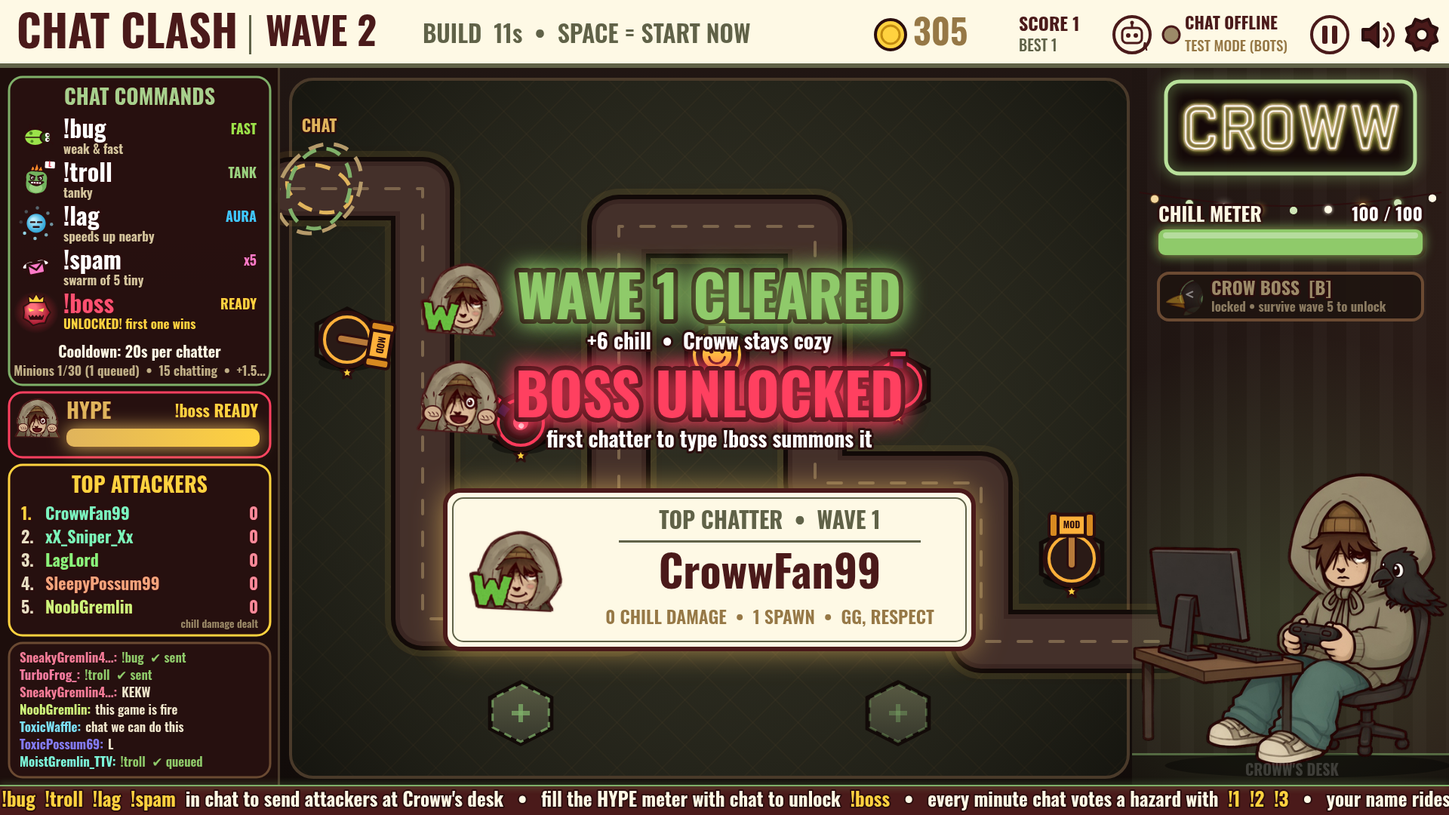
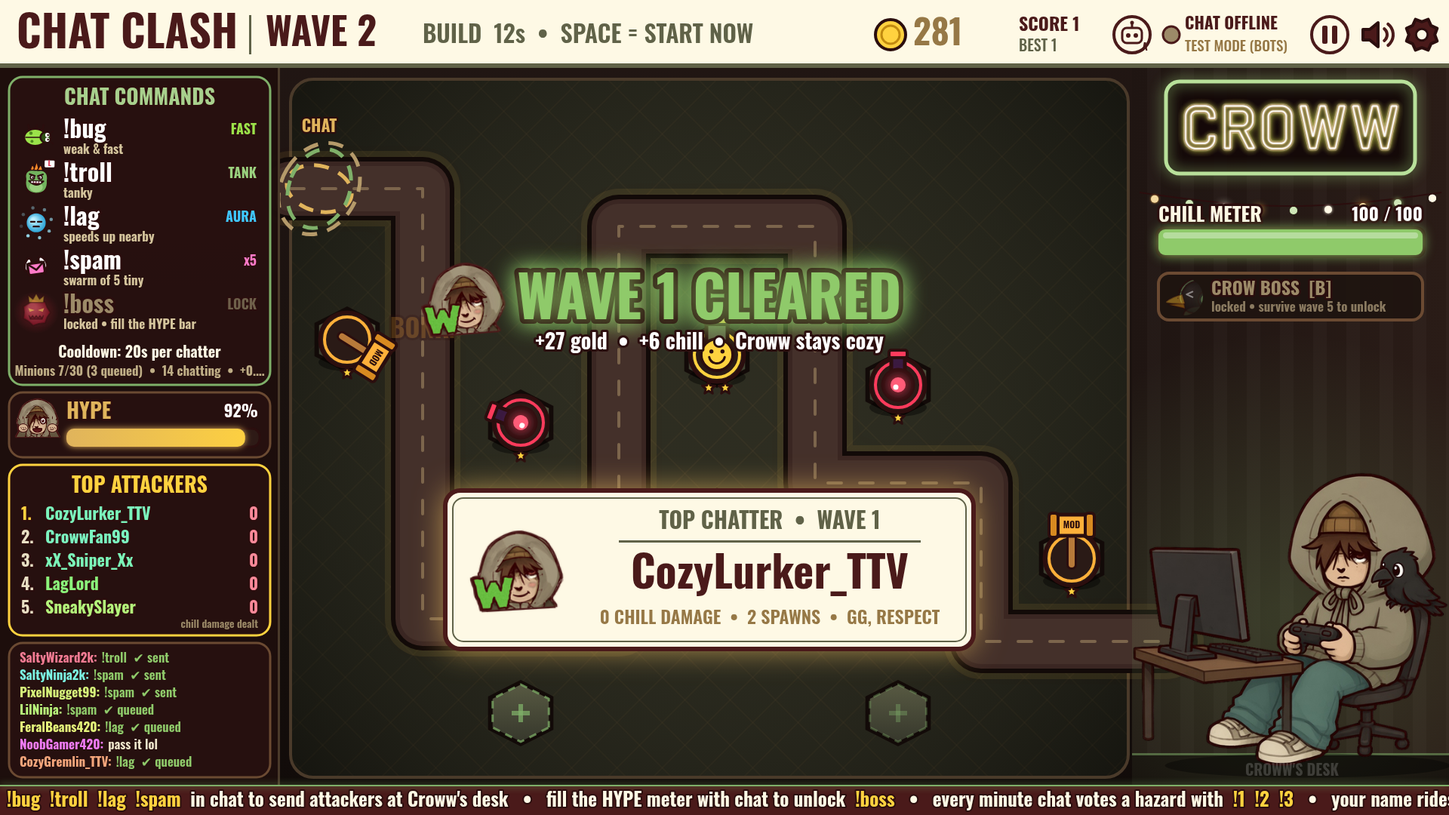
Economy rework: tight gold. Trickle 1.5->0.4/s (small-chat boost +1.5 -> +0.1), wave-clear bonus 15+12/wave, kill gold x0.55 (small-chat kill bonus +35%), towers ~1.7x (100/135/120/185) +25% per copy owned, upgrades 1.0x/1.5x base; econ-sim bank curve; tests updated

diff --git a/index.html b/index.html
@@ -71,10 +71,12 @@ const DATA = {
   W: 1920, H: 1080,
   path: [[405,250],[560,250],[560,820],[820,820],[820,300],[1080,300],[1080,640],[1300,640],[1300,850],[1545,850]],
   pads: [[460,450],[690,560],[690,945],[950,470],[950,690],[1190,510],[1190,945],[1420,740]],
-  economy: { startGold: 160, trickle: 1.5, sellRefund: 0.6,
+  // income is mostly EARNED: kills + a wave-clear bonus (clearBase + clearPerWave * wave); the passive trickle is small.
+  // killMult scales every enemy's gold; npcKillMult further scales the house NPCs (they are numerous).
+  economy: { startGold: 200, trickle: 0.4, sellRefund: 0.6, killMult: 0.55, npcKillMult: 1, chatKillMult: 1, clearBase: 15, clearPerWave: 12, copyStep: 0.25,
     // small-chat boost: fewer chatters = fewer chat enemies to farm, so the trickle (and a little kill gold) scales up.
     // boost k = 1 at 0 active chatters, fading linearly to 0 at smallChatFull chatters.
-    smallChatFull: 8, smallTrickleBonus: 1.5, smallKillBonus: 0.1, activeWindow: 120 },
+    smallChatFull: 8, smallTrickleBonus: 0.1, smallKillBonus: 0.35, activeWindow: 120 },
   // small-chat scaling of chat power (k = small-chat boost 0..1, same k as the gold boost)
   smallChat: { cooldown: 7, cooldownCurve: 1.6, hpBoost: { bug: 0.4, troll: 0.6, lag: 0.4, spam: 0.3 }, spamExtra: 3, hypeGain: 4, hypeDecayCut: 0.7 },
   chill: { max: 100, regenOnClear: 6 },
@@ -94,12 +96,12 @@ const DATA = {
     boss:  { label: 'BOSS',  desc: 'unlocks at full HYPE', hp: 1700, speed: 36,  gold: 150, dmg: 35, r: 56, cost: 0 }
   },
   towers: {
-    hammer: { name: 'Mod Hammer',   key: '1', desc: 'Melee slam, splash damage',    cost: 60,  range: 150, dmg: 34, rate: 1.1, splash: 95, color: '#ffb03a' },
-    laser:  { name: 'Ban Laser',    key: '2', desc: 'Single-target beam, high DPS', cost: 80,  range: 270, dps: 44, color: '#ff3b5c' },
-    slow:   { name: 'Slow Mode',    key: '3', desc: 'Pulse slows everyone nearby',  cost: 70,  range: 210, slow: 0.45, dur: 1.5, rate: 1.0, dmg: 5, color: '#5ab8ff' },
-    cannon: { name: 'Emote Cannon', key: '4', desc: 'Lobbed emotes, big AoE',       cost: 110, range: 290, dmg: 50, rate: 1.9, splash: 115, projSpeed: 1.1, color: '#ffd23f' }
+    hammer: { name: 'Mod Hammer',   key: '1', desc: 'Melee slam, splash damage',    cost: 100, range: 150, dmg: 34, rate: 1.1, splash: 95, color: '#ffb03a' },
+    laser:  { name: 'Ban Laser',    key: '2', desc: 'Single-target beam, high DPS', cost: 135, range: 270, dps: 44, color: '#ff3b5c' },
+    slow:   { name: 'Slow Mode',    key: '3', desc: 'Pulse slows everyone nearby',  cost: 120, range: 210, slow: 0.45, dur: 1.5, rate: 1.0, dmg: 5, color: '#5ab8ff' },
+    cannon: { name: 'Emote Cannon', key: '4', desc: 'Lobbed emotes, big AoE',       cost: 185, range: 290, dmg: 50, rate: 1.9, splash: 115, projSpeed: 1.1, color: '#ffd23f' }
   },
-  upgrade: { maxLevel: 3, costMult: [0, 0.85, 1.3], dmgMult: 1.55, rangeMult: 1.1, rateMult: 0.88, slowAdd: 0.08 },
+  upgrade: { maxLevel: 3, costMult: [0, 1.0, 1.5], dmgMult: 1.55, rangeMult: 1.1, rateMult: 0.88, slowAdd: 0.08 },
   vote: { firstDelay: 40, interval: 60, duration: 20, hazardDuration: 25 },
   hazards: {
     fog:      { name: 'FOG',          desc: 'Towers lose 30% range',    range: 0.7, color: '#b9c3d6' },
@@ -291,12 +293,14 @@ function startWave() {
 }
 function waveCleared() {
   G.score = G.wave;
+  const bonus = Math.round(waveBonus(G.wave) * diff().gold); G.gold += bonus;
+  G.texts.push({ x: 1200, y: 60, s: '+' + bonus + 'g WAVE BONUS', c: '#ffd23f', t: 0, dur: 1.8, size: 30, vy: -10, pop: true });
   G.chill = Math.min(DATA.chill.max, G.chill + DATA.chill.regenOnClear);
   let top = null;
   for (const u in G.waveStats) { const s = G.waveStats[u]; if (!top || s.dmg > top.s.dmg || (s.dmg === top.s.dmg && s.spawns > top.s.spawns)) top = { u, s }; }
   G.card = { t: 0, dur: 5, wave: G.wave, top };
   G.crow.ringT = 2.6;
-  banner('WAVE ' + G.wave + ' CLEARED', '+' + DATA.chill.regenOnClear + ' chill  \u2022  Croww stays cozy', '#8fca6a', 2.6, 'crowwW');
+  banner('WAVE ' + G.wave + ' CLEARED', '+' + bonus + ' gold  \u2022  +' + DATA.chill.regenOnClear + ' chill  \u2022  Croww stays cozy', '#8fca6a', 2.6, 'crowwW');
   SFX.play('clear');
   saveBest(G.score);
   if (G.wave >= DATA.crowBoss.unlockWave) unlockCrowBoss('survived wave ' + G.wave);
@@ -328,7 +332,7 @@ function dmgEnemy(e, amt, src) {
   if (src !== 'laser') SFX.play('hit');
   if (e.hp <= 0) {
     e.dead = true; G.kills++;
-    const g = Math.round(DATA.enemies[e.type].gold * diff().gold * killGoldMult()); G.gold += g;
+    const g = Math.round(DATA.enemies[e.type].gold * DATA.economy.killMult * (e.isBot ? DATA.economy.npcKillMult : DATA.economy.chatKillMult) * diff().gold * killGoldMult()); G.gold += g;
     G.texts.push({ x: e.x, y: e.y - 20, s: '+' + g, c: '#ffd23f', t: 0, dur: 0.9, size: 26, vy: -60 });
     const col = { bug: '#9be34a', troll: '#72b35e', lag: '#3fc8ff', spam: '#ff7ac8', boss: '#ff4060' }[e.type];
     const cnt = e.type === 'boss' ? 60 : e.type === 'troll' ? 22 : 12;
@@ -615,10 +619,14 @@ function tStats(tw) {
   return { range: b.range * Math.pow(u.rangeMult, l) * fog, baseRange: b.range * Math.pow(u.rangeMult, l), dmg: (b.dmg || 0) * Math.pow(u.dmgMult, l), dps: (b.dps || 0) * Math.pow(u.dmgMult, l),
     rate: (b.rate || 0) * Math.pow(u.rateMult, l), splash: b.splash ? b.splash * (1 + 0.1 * l) : 0, slow: b.slow ? Math.min(0.75, b.slow + u.slowAdd * l) : 0, dur: b.dur || 0 };
 }
+/* tower price: base cost +copyStep (25%) for every tower of that type already owned; rounded to 5g */
+function towerCost(type) { const owned = G ? G.towers.filter(t => t && t.type === type).length : 0; return Math.round(DATA.towers[type].cost * (1 + DATA.economy.copyStep * owned) / 5) * 5; }
+function cheapestTowerCost() { return Math.min(...Object.keys(DATA.towers).map(towerCost)); }
+function waveBonus(w) { return Math.round(DATA.economy.clearBase + DATA.economy.clearPerWave * w); }
 function upCost(tw) { return tw.level >= DATA.upgrade.maxLevel ? 0 : Math.round(DATA.towers[tw.type].cost * DATA.upgrade.costMult[tw.level]); }
 function build(pi, type) {
   if (G.towers[pi] || G.phase === 'defeat' || G.phase === 'results') return false;
-  const c = DATA.towers[type].cost; if (G.gold < c) { SFX.play('click'); return false; }
+  const c = towerCost(type); if (G.gold < c) { SFX.play('click'); return false; }
   G.gold -= c; const [x, y] = DATA.pads[pi];
   G.towers[pi] = { type, level: 1, cd: 0.3, ang: -Math.PI / 2, anim: 0, recoil: 0, beam: null, spent: c, x, y, pulse: 0, place: 1 };
   G.rings.push({ x, y, r: 20, r2: 90, t: 0, dur: 0.4, c: DATA.towers[type].color, w: 6 });
@@ -720,7 +728,7 @@ function afkTick(dt) {
   // build the next planned tower, else the cheapest useful upgrade
   const next = AFK_PLAN.find(([, pi]) => !G.towers[pi]);
   const ups = G.towers.map((tw, i) => tw && tw.level < DATA.afk.maxLevel ? { i, c: upCost(tw) } : null).filter(x => x && x.c > 0).sort((a, b) => a.c - b.c);
-  const nCost = next ? DATA.towers[next[0]].cost : Infinity, built = G.towers.filter(Boolean).length;
+  const nCost = next ? towerCost(next[0]) : Infinity, built = G.towers.filter(Boolean).length;
   const money = G.gold - DATA.afk.reserve;
   if (next && (built < 4 || !ups.length || nCost <= ups[0].c * 1.4)) { if (money >= nCost) build(next[1], next[0]); }
   else if (ups.length && money >= ups[0].c) upgrade(ups[0].i);
@@ -944,7 +952,7 @@ function drawTowerIcon(type, x, y, s, t, ang, anim, recoil, level) {
   if (level) for (let i = 0; i < level; i++) { const px = x - (level - 1) * 11 + i * 22; ctx.save(); ctx.translate(px, y + 44 * s); ctx.beginPath(); for (let j = 0; j < 10; j++) { const a = j / 10 * 6.283 - Math.PI / 2, rr2 = j % 2 ? 4 : 9; ctx.lineTo(Math.cos(a) * rr2, Math.sin(a) * rr2); } ctx.closePath(); fs('#ffd23f', 3); ctx.restore(); }
 }
 function drawPadsTowers(t) {
-  const minCost = Math.min(...Object.values(DATA.towers).map(v => v.cost));
+  const minCost = cheapestTowerCost();
   DATA.pads.forEach(([x, y], i) => {
     if (G.towers[i]) return;
     const hov = view.hoverPad === i || view.sel === i, canBuy = G.gold >= minCost, col = canBuy ? '#7fb069' : '#6e604a';
@@ -1417,7 +1425,7 @@ function drawMenu(t) {
   for (const b of btns) {
     const hov = view.hoverBtn === b.kind + (b.type || '');
     let label = '', can = true, col = '#7fb069';
-    if (b.kind === 'build') { const D = DATA.towers[b.type]; can = G.gold >= D.cost; col = D.color; label = D.cost + 'g'; }
+    if (b.kind === 'build') { const D = DATA.towers[b.type], c = towerCost(b.type); can = G.gold >= c; col = D.color; label = c + 'g'; }
     else if (b.kind === 'up') { const c = upCost(tw); can = c > 0 && G.gold >= c; label = c ? c + 'g' : 'MAX'; col = '#8fca6a'; }
     else { label = '+' + Math.round(tw.spent * DATA.economy.sellRefund); col = '#ffd23f'; }
     ctx.save();
@@ -1434,9 +1442,9 @@ function drawMenu(t) {
     if (hov) tip = b;
   }
   let title = '', l1 = '', l2 = '';
-  if (tip && tip.kind === 'build') { const D = DATA.towers[tip.type]; title = D.name + '  -  ' + D.cost + 'g'; l1 = D.desc; l2 = statLine(tip.type, 1); }
+  if (tip && tip.kind === 'build') { const D = DATA.towers[tip.type], c = towerCost(tip.type), own = G.towers.filter(x => x && x.type === tip.type).length; title = D.name + '  -  ' + c + 'g' + (own ? '  (' + own + ' owned, +' + Math.round(DATA.economy.copyStep * 100) + '% each)' : ''); l1 = D.desc; l2 = statLine(tip.type, 1); }
   else if (tw) { const D = DATA.towers[tw.type]; title = D.name + '  LV ' + tw.level; l1 = statLine(tw.type, tw.level); l2 = tw.level < DATA.upgrade.maxLevel ? 'Upgrade (U) ' + upCost(tw) + 'g \u2192 ' + statLine(tw.type, tw.level + 1) : 'MAX LEVEL  \u2022  X to sell'; if (tip && tip.kind === 'sell') l2 = 'Sell (X) for ' + Math.round(tw.spent * DATA.economy.sellRefund) + 'g'; }
-  else { title = 'BUILD A TOWER'; l1 = 'Hover for info  \u2022  keys 1-4 to build'; l2 = 'Gold: kills + a steady trickle'; }
+  else { title = 'BUILD A TOWER'; l1 = 'Hover for info  \u2022  keys 1-4 to build'; l2 = 'Gold: kills + wave-clear bonus (small trickle)'; }
   const TR = menuTooltipRect(btns), bw = TR.w, bx = TR.x, by = TR.y;
   panel(bx, by, bw, TR.h, '#7fb069', 0.95);
   T(title, bx + 16, by + 22, 24, '#fff', 'left', { w: 900 });

diff --git a/tools/econ-sim.js b/tools/econ-sim.js
@@ -1,44 +1,54 @@
-// Economy sim: node tools/econ-sim.js  -> gold/s and when the 4th tower / upgrades become affordable, per chat size.
+// Economy sim: node tools/econ-sim.js [dir-with-index.html] [seeds]
+// Chatters use the real chat path. A "casual" player checks the shop every 8s and buys ONE thing if affordable
+// (next tower until 4, then the cheapest of upgrade / next tower). Reports banked (unspent) gold and what is owned
+// at the end of wave 5, plus gold/s, through the end of wave 10.
 const puppeteer = require('puppeteer-core'); const http = require('http'), fs = require('fs'), path = require('path');
-const root = path.resolve(process.argv[2] || path.join(__dirname, '..'));
+const root = path.resolve(process.argv[2] || path.join(__dirname, '..')), SEEDS = +(process.argv[3] || 5);
 const srv = http.createServer((q, r) => { fs.readFile(path.join(root, 'index.html'), (e, d) => { r.writeHead(200, { 'Content-Type': 'text/html' }); r.end(d); }); }).listen(8769);
 (async () => {
   const browser = await puppeteer.launch({ executablePath: '/usr/bin/google-chrome', headless: true, args: ['--no-sandbox'] });
-  const page = await browser.newPage(); await page.goto('http://localhost:8769/?connect=0&test=off'); await new Promise(r => setTimeout(r, 400));
-  const res = await page.evaluate(() => {
+  const page = await browser.newPage(); page.on('pageerror', e => console.log('PAGEERROR', e.message));
+  await page.goto('http://localhost:8769/?connect=0&test=off'); await new Promise(r => setTimeout(r, 400));
+  const res = await page.evaluate(SEEDS => {
     CC.manual(true); const out = [];
     let seed = 1; const rnd = () => (seed = (seed * 16807) % 2147483647) / 2147483647; Math.random = rnd;
+    const cost = t => typeof towerCost === 'function' ? towerCost(t) : CC.DATA.towers[t].cost;
     const PADS = [1, 3, 4, 5, 0, 7, 2, 6], TYPES = ['hammer', 'laser', 'slow', 'cannon', 'laser', 'hammer', 'cannon', 'laser'];
-    for (const mode of ['off', 'auto']) for (const n of [0, 1, 3, 15]) {
+    const q = (a, p) => { const s = a.slice().sort((x, y) => x - y); return s.length ? Math.round(s[Math.min(s.length - 1, Math.floor(p * s.length))]) : null; };
+    for (const n of [0, 1, 3, 15]) {
       const runs = [];
-      for (let s = 1; s <= 5; s++) {
-        seed = s * 7919; CC.settings.smallChat = mode; CC.settings.testMode = 'off'; CC.newGame();
-        for (const k in lastSeen) delete lastSeen[k];
-        const users = Array.from({ length: n }, (_, i) => ({ u: 'viewer' + i, next: 2 + rnd() * 20 }));
-        const r = { gps0: 0, t4: null, up1: null, up3: null, gold300: 0, wave: 0, lost: null };
-        let built = 0, ups = 0, earned = 0, lastGold = CC.G.gold, t = 0;
-        const dt = 1 / 30;
-        while (t < 300) {
-          for (const us of users) if (t >= us.next) { const cmd = ['!bug', '!troll', '!spam', '!lag', 'lol', 'W'][Math.floor(rnd() * 6)]; CC.onChat(us.u, cmd, 'kick'); us.next = t + 21 + rnd() * 15; }
-          CC.step(dt, dt); t += dt;
-          const G = CC.G; if (G.gold > lastGold) earned += G.gold - lastGold;
-          if (G.phase === 'defeat' || G.phase === 'results') { r.lost = r.lost || Math.round(t); break; }
-          if (Math.abs(t - 20) < dt / 2) r.gps0 = CC.goldPerSec();
-          // spend: towers 1-4 first, then upgrades (cheapest first), then more towers
-          if (built < 4) { if (G.gold >= CC.DATA.towers[TYPES[built]].cost && CC.build(PADS[built], TYPES[built])) { built++; if (built === 4) r.t4 = Math.round(t); } }
-          else {
-            const cand = G.towers.map((tw, i) => tw && tw.level < 3 ? { i, c: upCost(tw) } : null).filter(Boolean).sort((a, b) => a.c - b.c)[0];
-            if (cand && G.gold >= cand.c) { CC.upgrade(cand.i); ups++; if (ups === 1) r.up1 = Math.round(t); if (ups === 3) r.up3 = Math.round(t); }
+      for (let s = 1; s <= SEEDS; s++) {
+        seed = s * 7919 + n; CC.settings.smallChat = 'auto'; CC.settings.testMode = 'off'; CC.newGame();
+        if (typeof lastSeen !== 'undefined') for (const k in lastSeen) delete lastSeen[k];
+        const users = Array.from({ length: n }, (_, i) => ({ u: 'viewer' + i, next: 1 + rnd() * 8 }));
+        const r = { banks: [], w5: null, t4: null, gps: 0, lost: null, earned: 0, wb: {} };
+        let built = 0, ups = 0, t = 0, shop = 8, lastGold = CC.G.gold; const dt = 1 / 20;
+        while (CC.G.wave <= 10 && t < 1800) {
+          const G = CC.G;
+          for (const us of users) if (t >= us.next) { const m = G.vote && rnd() < 0.5 ? '!' + (1 + Math.floor(rnd() * 3)) : G.bossReady && rnd() < 0.8 ? '!boss' : rnd() < 0.6 ? ['!bug', '!troll', '!spam', '!lag'][Math.floor(rnd() * 4)] : 'lol'; CC.onChat(us.u, m, 'kick'); us.next = t + 6 + rnd() * 10; }
+          const w0 = G.wave; CC.step(dt, dt); t += dt;
+          if (G.gold > lastGold) r.earned += G.gold - lastGold;
+          if (G.phase === 'defeat' || G.phase === 'results') { r.lost = G.wave; break; }
+          if (Math.abs(t - 30) < dt / 2) r.gps = CC.goldPerSec ? CC.goldPerSec() : CC.DATA.economy.trickle;
+          if (Math.floor(t) !== Math.floor(t - dt)) r.banks.push(G.gold);
+          if (G.wave > w0) r.wb[w0] = Math.round(G.gold);
+          if (w0 === 5 && G.wave === 6) r.w5 = { towers: built, ups, bank: Math.round(G.gold), t: Math.round(t) };
+          if ((shop -= dt) <= 0) { shop = 8;
+            const up = G.towers.map((tw, i) => tw && tw.level < 3 ? { i, c: upCost(tw) } : null).filter(Boolean).sort((a, b) => a.c - b.c)[0];
+            const nc = built < 8 ? cost(TYPES[built]) : Infinity;
+            if (built < 4 || !up || nc <= up.c) { if (built < 8 && G.gold >= nc && CC.build(PADS[built], TYPES[built])) { built++; if (built === 4) r.t4 = Math.round(t); } }
+            else if (G.gold >= up.c) { CC.upgrade(up.i); ups++; }
           }
           lastGold = G.gold;
         }
-        r.gold300 = Math.round(earned + 0); r.wave = CC.G.wave; runs.push(r);
+        runs.push(r);
       }
-      const avg = k => { const v = runs.map(r => r[k]).filter(x => x != null); return v.length ? Math.round(v.reduce((a, b) => a + b, 0) / v.length * 10) / 10 : null; };
-      out.push({ mode, chatters: n, 'gold/s trickle': Math.round(runs[0].gps0 * 100) / 100, '4th tower @s': avg('t4'), '1st upgrade @s': avg('up1'), '3rd upgrade @s': avg('up3'), 'gold earned in 300s': avg('gold300'), 'wave @300s': avg('wave'), losses: runs.filter(r => r.lost).length + '/5' });
+      const all = runs.flatMap(r => r.banks.slice(0, 180)), all2 = runs.flatMap(r => r.banks);
+      const avg = f => { const v = runs.map(f).filter(x => x != null); return v.length ? +(v.reduce((a, b) => a + b, 0) / v.length).toFixed(1) : '-'; };
+      out.push({ chatters: n, 'trickle g/s': +(+runs[0].gps).toFixed(2), 'end of wave 5 @s': avg(r => r.w5 && r.w5.t), 'towers @w5': avg(r => r.w5 && r.w5.towers), 'upgrades @w5': avg(r => r.w5 && r.w5.ups), 'bank @w5': avg(r => r.w5 && r.w5.bank), '4th tower @s': avg(r => r.t4), 'bank median (first 3 min)': q(all, 0.5), 'bank p90 (first 3 min)': q(all, 0.9), 'bank median (to w10)': q(all2, 0.5), 'bank p90 (to w10)': q(all2, 0.9), 'bank max (to w10)': q(all2, 1), 'bank after wave 1..10': Array.from({ length: 10 }, (_, i) => { const v = runs.map(r => r.wb[i + 1]).filter(x => x != null); return v.length ? Math.round(v.reduce((a, b) => a + b, 0) / v.length) : '-'; }).join(' '), 'lost before w10': runs.filter(r => r.lost).length + '/' + SEEDS + (runs.some(r => r.lost) ? ' (w' + runs.filter(r => r.lost).map(r => r.lost).join(',') + ')' : '') });
     }
     return out;
-  });
+  }, SEEDS);
   console.table(res);
   await browser.close(); srv.close();
 })();

diff --git a/src/2-game.js b/src/2-game.js
@@ -41,12 +41,14 @@ function startWave() {
 }
 function waveCleared() {
   G.score = G.wave;
+  const bonus = Math.round(waveBonus(G.wave) * diff().gold); G.gold += bonus;
+  G.texts.push({ x: 1200, y: 60, s: '+' + bonus + 'g WAVE BONUS', c: '#ffd23f', t: 0, dur: 1.8, size: 30, vy: -10, pop: true });
   G.chill = Math.min(DATA.chill.max, G.chill + DATA.chill.regenOnClear);
   let top = null;
   for (const u in G.waveStats) { const s = G.waveStats[u]; if (!top || s.dmg > top.s.dmg || (s.dmg === top.s.dmg && s.spawns > top.s.spawns)) top = { u, s }; }
   G.card = { t: 0, dur: 5, wave: G.wave, top };
   G.crow.ringT = 2.6;
-  banner('WAVE ' + G.wave + ' CLEARED', '+' + DATA.chill.regenOnClear + ' chill  \u2022  Croww stays cozy', '#8fca6a', 2.6, 'crowwW');
+  banner('WAVE ' + G.wave + ' CLEARED', '+' + bonus + ' gold  \u2022  +' + DATA.chill.regenOnClear + ' chill  \u2022  Croww stays cozy', '#8fca6a', 2.6, 'crowwW');
   SFX.play('clear');
   saveBest(G.score);
   if (G.wave >= DATA.crowBoss.unlockWave) unlockCrowBoss('survived wave ' + G.wave);
@@ -78,7 +80,7 @@ function dmgEnemy(e, amt, src) {
   if (src !== 'laser') SFX.play('hit');
   if (e.hp <= 0) {
     e.dead = true; G.kills++;
-    const g = Math.round(DATA.enemies[e.type].gold * diff().gold * killGoldMult()); G.gold += g;
+    const g = Math.round(DATA.enemies[e.type].gold * DATA.economy.killMult * (e.isBot ? DATA.economy.npcKillMult : DATA.economy.chatKillMult) * diff().gold * killGoldMult()); G.gold += g;
     G.texts.push({ x: e.x, y: e.y - 20, s: '+' + g, c: '#ffd23f', t: 0, dur: 0.9, size: 26, vy: -60 });
     const col = { bug: '#9be34a', troll: '#72b35e', lag: '#3fc8ff', spam: '#ff7ac8', boss: '#ff4060' }[e.type];
     const cnt = e.type === 'boss' ? 60 : e.type === 'troll' ? 22 : 12;
@@ -365,10 +367,14 @@ function tStats(tw) {
   return { range: b.range * Math.pow(u.rangeMult, l) * fog, baseRange: b.range * Math.pow(u.rangeMult, l), dmg: (b.dmg || 0) * Math.pow(u.dmgMult, l), dps: (b.dps || 0) * Math.pow(u.dmgMult, l),
     rate: (b.rate || 0) * Math.pow(u.rateMult, l), splash: b.splash ? b.splash * (1 + 0.1 * l) : 0, slow: b.slow ? Math.min(0.75, b.slow + u.slowAdd * l) : 0, dur: b.dur || 0 };
 }
+/* tower price: base cost +copyStep (25%) for every tower of that type already owned; rounded to 5g */
+function towerCost(type) { const owned = G ? G.towers.filter(t => t && t.type === type).length : 0; return Math.round(DATA.towers[type].cost * (1 + DATA.economy.copyStep * owned) / 5) * 5; }
+function cheapestTowerCost() { return Math.min(...Object.keys(DATA.towers).map(towerCost)); }
+function waveBonus(w) { return Math.round(DATA.economy.clearBase + DATA.economy.clearPerWave * w); }
 function upCost(tw) { return tw.level >= DATA.upgrade.maxLevel ? 0 : Math.round(DATA.towers[tw.type].cost * DATA.upgrade.costMult[tw.level]); }
 function build(pi, type) {
   if (G.towers[pi] || G.phase === 'defeat' || G.phase === 'results') return false;
-  const c = DATA.towers[type].cost; if (G.gold < c) { SFX.play('click'); return false; }
+  const c = towerCost(type); if (G.gold < c) { SFX.play('click'); return false; }
   G.gold -= c; const [x, y] = DATA.pads[pi];
   G.towers[pi] = { type, level: 1, cd: 0.3, ang: -Math.PI / 2, anim: 0, recoil: 0, beam: null, spent: c, x, y, pulse: 0, place: 1 };
   G.rings.push({ x, y, r: 20, r2: 90, t: 0, dur: 0.4, c: DATA.towers[type].color, w: 6 });
@@ -470,7 +476,7 @@ function afkTick(dt) {
   // build the next planned tower, else the cheapest useful upgrade
   const next = AFK_PLAN.find(([, pi]) => !G.towers[pi]);
   const ups = G.towers.map((tw, i) => tw && tw.level < DATA.afk.maxLevel ? { i, c: upCost(tw) } : null).filter(x => x && x.c > 0).sort((a, b) => a.c - b.c);
-  const nCost = next ? DATA.towers[next[0]].cost : Infinity, built = G.towers.filter(Boolean).length;
+  const nCost = next ? towerCost(next[0]) : Infinity, built = G.towers.filter(Boolean).length;
   const money = G.gold - DATA.afk.reserve;
   if (next && (built < 4 || !ups.length || nCost <= ups[0].c * 1.4)) { if (money >= nCost) build(next[1], next[0]); }
   else if (ups.length && money >= ups[0].c) upgrade(ups[0].i);

diff --git a/src/1-core.js b/src/1-core.js
@@ -12,10 +12,12 @@ const DATA = {
   W: 1920, H: 1080,
   path: [[405,250],[560,250],[560,820],[820,820],[820,300],[1080,300],[1080,640],[1300,640],[1300,850],[1545,850]],
   pads: [[460,450],[690,560],[690,945],[950,470],[950,690],[1190,510],[1190,945],[1420,740]],
-  economy: { startGold: 160, trickle: 1.5, sellRefund: 0.6,
+  // income is mostly EARNED: kills + a wave-clear bonus (clearBase + clearPerWave * wave); the passive trickle is small.
+  // killMult scales every enemy's gold; npcKillMult further scales the house NPCs (they are numerous).
+  economy: { startGold: 200, trickle: 0.4, sellRefund: 0.6, killMult: 0.55, npcKillMult: 1, chatKillMult: 1, clearBase: 15, clearPerWave: 12, copyStep: 0.25,
     // small-chat boost: fewer chatters = fewer chat enemies to farm, so the trickle (and a little kill gold) scales up.
     // boost k = 1 at 0 active chatters, fading linearly to 0 at smallChatFull chatters.
-    smallChatFull: 8, smallTrickleBonus: 1.5, smallKillBonus: 0.1, activeWindow: 120 },
+    smallChatFull: 8, smallTrickleBonus: 0.1, smallKillBonus: 0.35, activeWindow: 120 },
   // small-chat scaling of chat power (k = small-chat boost 0..1, same k as the gold boost)
   smallChat: { cooldown: 7, cooldownCurve: 1.6, hpBoost: { bug: 0.4, troll: 0.6, lag: 0.4, spam: 0.3 }, spamExtra: 3, hypeGain: 4, hypeDecayCut: 0.7 },
   chill: { max: 100, regenOnClear: 6 },
@@ -35,12 +37,12 @@ const DATA = {
     boss:  { label: 'BOSS',  desc: 'unlocks at full HYPE', hp: 1700, speed: 36,  gold: 150, dmg: 35, r: 56, cost: 0 }
   },
   towers: {
-    hammer: { name: 'Mod Hammer',   key: '1', desc: 'Melee slam, splash damage',    cost: 60,  range: 150, dmg: 34, rate: 1.1, splash: 95, color: '#ffb03a' },
-    laser:  { name: 'Ban Laser',    key: '2', desc: 'Single-target beam, high DPS', cost: 80,  range: 270, dps: 44, color: '#ff3b5c' },
-    slow:   { name: 'Slow Mode',    key: '3', desc: 'Pulse slows everyone nearby',  cost: 70,  range: 210, slow: 0.45, dur: 1.5, rate: 1.0, dmg: 5, color: '#5ab8ff' },
-    cannon: { name: 'Emote Cannon', key: '4', desc: 'Lobbed emotes, big AoE',       cost: 110, range: 290, dmg: 50, rate: 1.9, splash: 115, projSpeed: 1.1, color: '#ffd23f' }
+    hammer: { name: 'Mod Hammer',   key: '1', desc: 'Melee slam, splash damage',    cost: 100, range: 150, dmg: 34, rate: 1.1, splash: 95, color: '#ffb03a' },
+    laser:  { name: 'Ban Laser',    key: '2', desc: 'Single-target beam, high DPS', cost: 135, range: 270, dps: 44, color: '#ff3b5c' },
+    slow:   { name: 'Slow Mode',    key: '3', desc: 'Pulse slows everyone nearby',  cost: 120, range: 210, slow: 0.45, dur: 1.5, rate: 1.0, dmg: 5, color: '#5ab8ff' },
+    cannon: { name: 'Emote Cannon', key: '4', desc: 'Lobbed emotes, big AoE',       cost: 185, range: 290, dmg: 50, rate: 1.9, splash: 115, projSpeed: 1.1, color: '#ffd23f' }
   },
-  upgrade: { maxLevel: 3, costMult: [0, 0.85, 1.3], dmgMult: 1.55, rangeMult: 1.1, rateMult: 0.88, slowAdd: 0.08 },
+  upgrade: { maxLevel: 3, costMult: [0, 1.0, 1.5], dmgMult: 1.55, rangeMult: 1.1, rateMult: 0.88, slowAdd: 0.08 },
   vote: { firstDelay: 40, interval: 60, duration: 20, hazardDuration: 25 },
   hazards: {
     fog:      { name: 'FOG',          desc: 'Towers lose 30% range',    range: 0.7, color: '#b9c3d6' },

diff --git a/src/4-hud.js b/src/4-hud.js
@@ -261,7 +261,7 @@ function drawMenu(t) {
   for (const b of btns) {
     const hov = view.hoverBtn === b.kind + (b.type || '');
     let label = '', can = true, col = '#7fb069';
-    if (b.kind === 'build') { const D = DATA.towers[b.type]; can = G.gold >= D.cost; col = D.color; label = D.cost + 'g'; }
+    if (b.kind === 'build') { const D = DATA.towers[b.type], c = towerCost(b.type); can = G.gold >= c; col = D.color; label = c + 'g'; }
     else if (b.kind === 'up') { const c = upCost(tw); can = c > 0 && G.gold >= c; label = c ? c + 'g' : 'MAX'; col = '#8fca6a'; }
     else { label = '+' + Math.round(tw.spent * DATA.economy.sellRefund); col = '#ffd23f'; }
     ctx.save();
@@ -278,9 +278,9 @@ function drawMenu(t) {
     if (hov) tip = b;
   }
   let title = '', l1 = '', l2 = '';
-  if (tip && tip.kind === 'build') { const D = DATA.towers[tip.type]; title = D.name + '  -  ' + D.cost + 'g'; l1 = D.desc; l2 = statLine(tip.type, 1); }
+  if (tip && tip.kind === 'build') { const D = DATA.towers[tip.type], c = towerCost(tip.type), own = G.towers.filter(x => x && x.type === tip.type).length; title = D.name + '  -  ' + c + 'g' + (own ? '  (' + own + ' owned, +' + Math.round(DATA.economy.copyStep * 100) + '% each)' : ''); l1 = D.desc; l2 = statLine(tip.type, 1); }
   else if (tw) { const D = DATA.towers[tw.type]; title = D.name + '  LV ' + tw.level; l1 = statLine(tw.type, tw.level); l2 = tw.level < DATA.upgrade.maxLevel ? 'Upgrade (U) ' + upCost(tw) + 'g \u2192 ' + statLine(tw.type, tw.level + 1) : 'MAX LEVEL  \u2022  X to sell'; if (tip && tip.kind === 'sell') l2 = 'Sell (X) for ' + Math.round(tw.spent * DATA.economy.sellRefund) + 'g'; }
-  else { title = 'BUILD A TOWER'; l1 = 'Hover for info  \u2022  keys 1-4 to build'; l2 = 'Gold: kills + a steady trickle'; }
+  else { title = 'BUILD A TOWER'; l1 = 'Hover for info  \u2022  keys 1-4 to build'; l2 = 'Gold: kills + wave-clear bonus (small trickle)'; }
   const TR = menuTooltipRect(btns), bw = TR.w, bx = TR.x, by = TR.y;
   panel(bx, by, bw, TR.h, '#7fb069', 0.95);
   T(title, bx + 16, by + 22, 24, '#fff', 'left', { w: 900 });

diff --git a/tools/verify-afk.js b/tools/verify-afk.js
@@ -23,7 +23,7 @@ const FAKE_WS = () => {
   ok(s0.afk && s0.title <= 0 && s0.live === 'live', '?afk=1 starts AFK, skips the title card, Kick live ' + JSON.stringify(s0));
   await sleep(9000);
   const b = await page.evaluate(() => ({ towers: CC.G.towers.filter(Boolean).map(t => t.type), phase: CC.G.phase }));
-  ok(b.towers.length >= 2, 'bot builds towers on its own: ' + b.towers.join(','));
+  ok(b.towers.length >= 1, 'bot builds towers on its own (200g start buys 1 at new prices): ' + b.towers.join(','));
   await page.evaluate(() => { kickSay('Moonpie_77', '!troll'); kickSay('crowwfan', '!spam'); kickSay('lurker', '!1'); });
   await sleep(6000);
   const k = await page.evaluate(() => ({ phase: CC.G.phase, troll: CC.G.enemies.filter(e => e.user === 'Moonpie_77').length + CC.G.chatQueue.filter(q => q.user === 'Moonpie_77').length, session: Object.keys(CC.G.session) }));

diff --git a/tools/browser-test.js b/tools/browser-test.js
@@ -24,7 +24,7 @@ const ok = (c, m) => { if (!c) { console.log('FAIL', m); process.exitCode = 1; }
     const page = await open(W, H);
     const assets = await page.evaluate(() => ({ font: document.fonts.check('700 40px Oswald'), emotes: Object.values(EMOTES).filter(i => i.naturalWidth === 112).length }));
     ok(assets.font && assets.emotes === 4, tag + ' Oswald + 4 emotes embedded: ' + JSON.stringify(assets));
-    await page.evaluate(() => { CC.manual(true); CC.G.gold = 1000; });
+    await page.evaluate(() => { CC.manual(true); CC.G.gold = 2000; });
     // build with real mouse clicks: pad 0 -> hammer button (first), pad 3 -> laser, etc
     const pads = await page.evaluate(() => CC.DATA.pads);
     const plan = [[0, 0], [1, 1], [3, 3], [4, 2], [5, 1], [7, 0]];

diff --git a/src/3-draw.js b/src/3-draw.js
@@ -134,7 +134,7 @@ function drawTowerIcon(type, x, y, s, t, ang, anim, recoil, level) {
   if (level) for (let i = 0; i < level; i++) { const px = x - (level - 1) * 11 + i * 22; ctx.save(); ctx.translate(px, y + 44 * s); ctx.beginPath(); for (let j = 0; j < 10; j++) { const a = j / 10 * 6.283 - Math.PI / 2, rr2 = j % 2 ? 4 : 9; ctx.lineTo(Math.cos(a) * rr2, Math.sin(a) * rr2); } ctx.closePath(); fs('#ffd23f', 3); ctx.restore(); }
 }
 function drawPadsTowers(t) {
-  const minCost = Math.min(...Object.values(DATA.towers).map(v => v.cost));
+  const minCost = cheapestTowerCost();
   DATA.pads.forEach(([x, y], i) => {
     if (G.towers[i]) return;
     const hov = view.hoverPad === i || view.sel === i, canBuy = G.gold >= minCost, col = canBuy ? '#7fb069' : '#6e604a';

diff --git a/README.md b/README.md
@@ -10,13 +10,13 @@ Croww is the defender at his gaming desk (with his crow on his shoulder), and **
 ## For the streamer (Croww)
 - **Build:** click a glowing pad and pick a tower (or press **1-4**). Click a tower to **Upgrade (U)** or **Sell (X)**.
   - **Mod Hammer**: melee slam, splash. **Ban Laser**: single-target beam. **Slow Mode**: slows everything nearby. **Emote Cannon**: lobbed AoE.
-- **Rounds:** a short build phase, then a wave. **Space** starts the wave early. Gold comes from kills plus a steady trickle.
+- **Rounds:** a short build phase, then a wave. **Space** starts the wave early. Gold is meant to be tight: it comes mostly from kills plus a **wave-clear bonus** (15 + 12 per wave), with only a small 0.4/s trickle. Towers cost Hammer 100, Laser 135, Slow 120, Cannon 185, and each extra copy of the same type costs +25% more (rounded to 5g). Upgrades cost 1.0x then 1.5x the tower's base price. Selling refunds 60% of what you paid. `node tools/econ-sim.js [dir] [seeds]` simulates a casual player at 0/1/3/15 chatters and reports banked gold.
 - **You lose** when the **Chill Meter** hits 0. Score = waves survived. Waves are endless and escalate.
 - **Crow Boss (unlockable ally):** the first time you clear **wave 5** you get a *CROW BOSS UNLOCKED* banner (saved in this browser for good). Then press **B** or click the **CROW BOSS** button under the chill meter: the old smoking crow (coffee mug in Clean mode) flies onto the map for 12s, gives +8 chill, and every 1.4s blows a smoke ring that damages and slows (50%) every enemy within range. 90s cooldown. Settings also has an *Unlock Crow Boss now* button.
 - **AFK / Autoplay** (for a BRB scene): press **A**, click the robot button in the top bar, tick *AFK mode* in Settings, or open the page with `?afk=1`. The bot builds, upgrades (max level 2 so chat can beat it), deploys the Crow Boss and restarts about 12s after each loss, forever. Real chat keeps attacking, voting and summoning `!boss`, and TOP ATTACKERS carries across rounds. A banner reads *CROWW IS AFK: THE BOT IS DEFENDING - TYPE !bug TO ATTACK* with the round and chat-vs-NPC win count (chat wins a round when chat enemies did most of the damage). Any key or click on the game gives control back. AFK is not saved between reloads; use `?afk=1` for a BRB source. `node tools/afk-soak.js 48` runs a sped-up 48-round soak with memory checks; `node tools/verify-afk.js` checks it in real time.
 - Keys: **S** settings (or the gear icon), **P / Esc** pause (or the pause button in the top bar), **M** mute (or the speaker icon).
 - **Pause** freezes everything (waves, enemies, towers, votes, hazards, hype, chatter cooldowns, Crow Boss). Chat that arrives while paused (Kick or the fake-chat box) is **held** and plays in order when you resume.
-- **Small chat mode** (Settings > Game, Auto by default): with fewer than 8 active chatters (people who chatted in the last 2 min) the gold trickle rises from 1.5/s up to 3.0/s at 0 chatters, and kill gold gets up to +10%. The same boost also scales chat power, fading out by 8 chatters: per-chatter cooldown drops to **7s** (at 0-3 chatters), `!spam` sends up to 8 minions, chat enemies get tougher (troll up to +60% HP, others +30-40%), and hype fills up to 5x faster and decays 70% slower so `!boss` is reachable with 1-3 chatters. A **SMALL CHAT BOOST %** badge shows on the HUD while it is active. *Always on* = full boost, *Off* = the original values. Votes: one vote decides; with no votes a random hazard is picked. `node tools/smallchat-sim.js [minutes] [seeds]` simulates 0/1/3/15 chatters.
+- **Small chat mode** (Settings > Game, Auto by default): with fewer than 8 active chatters (people who chatted in the last 2 min) the small gold trickle rises from 0.4/s to 0.5/s at 0 chatters, and kill gold gets up to +35% (earned gold, not free gold). The same boost also scales chat power, fading out by 8 chatters: per-chatter cooldown drops to **7s** (at 0-3 chatters), `!spam` sends up to 8 minions, chat enemies get tougher (troll up to +60% HP, others +30-40%), and hype fills up to 5x faster and decays 70% slower so `!boss` is reachable with 1-3 chatters. A **SMALL CHAT BOOST %** badge shows on the HUD while it is active. *Always on* = full boost, *Off* = the original values. Votes: one vote decides; with no votes a random hazard is picked. `node tools/smallchat-sim.js [minutes] [seeds]` simulates 0/1/3/15 chatters.
 - Settings (saved in this browser): channel, chatroom id, Clean mode, cooldown per chatter, max chat enemies, difficulty, test mode and bot rate, a fake-chat box, volume and mute.
 
 ## For chat
